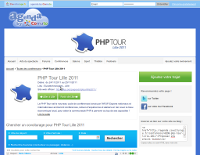
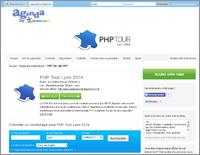
PHPTour Lyon : Mise à jour du site

diff --git a/htdocs/templates/phptourlyon2014/acces.html b/htdocs/templates/phptourlyon2014/acces.html
@@ -5,17 +5,16 @@
 
     <h2>Plan d'accès</h2>
 
-    <p>Le PHP Tour Lyon 2014 se tiendra au Centre de Communication de l'Ouest.</p>
-    <p class="block-leftbar">Centre de Communication de l'Ouest,<br/>Place de Bretagne,<br/>BP 72423,<br/>44047 Lyon Cedex 1</p>
-
-    <p>Le CCO sur Google Maps :</p>
+    <p>Le PHP Tour Lyon 2014 se tiendra à la Manufacture des Tabacs.</p>
+    <p class="block-leftbar">Université Jean Moulin Lyon 3,<br/>6 cours Albert Thomas,<br/>69008 LYON</p>
+    <p>La Manufacture des Tabacs sur Google Maps :</p>
     <div class="map">
-        <iframe width="670" height="250" frameborder="0" scrolling="no" marginheight="0" marginwidth="0" src="http://maps.google.fr/maps?f=q&amp;source=s_q&amp;hl=fr&amp;geocode=&amp;q=CCO,+place+de+bretagne,+lyon,+france&amp;ie=UTF8&amp;hq=CCO,&amp;hnear=Place+de+Bretagne,+Lyon,+Loire-Atlantique,+Pays+de+la+Loire&amp;t=m&amp;ll=47.217728,-1.558832&amp;spn=0.006295,0.006295&amp;output=embed"></iframe>
+        <iframe width="670" height="250" frameborder="0" scrolling="no" marginheight="0" marginwidth="0" src="https://www.google.fr/maps?t=m&amp;q=6+cours+Albert+Thomas+69008+LYON+&amp;ie=UTF8&amp;hq=&amp;hnear=6+Cours+Albert+Thomas,+69008+Lyon,+Rh%C3%B4ne,+Rh%C3%B4ne-Alpes&amp;z=14&amp;ll=45.749049,4.86073&amp;output=embed&iwloc=near"></iframe>
         <br />
-        <a href="http://maps.google.fr/maps?f=q&amp;source=embed&amp;hl=fr&amp;geocode=&amp;q=CCO,+place+de+bretagne,+lyon,+france&amp;ie=UTF8&amp;hq=CCO,&amp;hnear=Place+de+Bretagne,+Lyon,+Loire-Atlantique,+Pays+de+la+Loire&amp;t=m&amp;ll=47.217728,-1.558832&amp;spn=0.006295,0.006295">Agrandir le plan</a>
+        <a href="https://www.google.fr/maps?t=m&amp;q=6+cours+Albert+Thomas+69008+LYON+&amp;ie=UTF8&amp;hq=&amp;hnear=6+Cours+Albert+Thomas,+69008+Lyon,+Rh%C3%B4ne,+Rh%C3%B4ne-Alpes&amp;z=14&amp;ll=45.749049,4.86073&amp;output=embed">Agrandir le plan</a>
     </div>
 
-<!--
+
     <h2>Comment venir au PHP Tour Lyon 2014 ?</h2>
 
     <h3>En voiture, depuis Paris :</h3>
@@ -27,7 +26,7 @@
         <li>Au carrefour, prendre à gauche. Vous entrez sur l'avenue de Dunkerque.</li>
         <li>Au 5ème feu, prendre à gauche, avenue de Bretagne. Euratechnologies est au bout de la rue.</li>
     </ul>
-	<br/>
+    <br/>
 
     <h3>En voiture, depuis Bruxelles :</h3>
     <ul>
@@ -35,53 +34,42 @@
         <li>Après l'entrée sur le territoire français, prendre direction  A1/Lille/Armentieres/Dunkerque</li>
         <li>Suivre ensuite les directions données pour l'itinéraire depuis Paris</li>
     </ul>
-	<br/>
+    <br/>
 
     <h3>Voyagez à plusieurs grâce au covoiturage !</h3>
-	<div class="covoiturage">
-		<img src="{$chemin_template}images/covoiturage.png" align="left"/>
-   		<p>Proposez des places dans votre véhicule, ou trouvez une voiture qui se rend également au PHP Tour Lyon 2014,
-    	discutez PHP le temps du trajet, et partagez les frais de route : une page dédiée au co-voiturage est
-   		d'ores et déjà en place à cet effet : <a href="http://agenda.covoiturage.fr//conference/4208-php-tour-lille-2011">http://agenda.covoiturage.fr//conference/4208-php-tour-lille-2011</a></p>
-		<div class="clear"></div>
-	</div>
-	<br/>
+    <div class="covoiturage">
+        <img src="{$chemin_template}images/covoiturage.png" align="left"/>
+        <p>Proposez des places dans votre véhicule, ou trouvez une voiture qui se rend également au PHP Tour Lyon 2014,
+            discutez PHP le temps du trajet, et partagez les frais de route : une page dédiée au co-voiturage est
+            d'ores et déjà en place à cet effet : <a href="http://agenda.covoiturage.fr/evenement/conference/14365-php-tour-lyon-2014">http://agenda.covoiturage.fr/evenement/conference/14365-php-tour-lyon-2014</a></p>
+        <div class="clear"></div>
+    </div>
+    <br/>
 
     <h3 style="clear:both">En train :</h3>
     <ul>
-        <li>Paris / Lille en 1 heure,</li>
-        <li>Bruxelles / Lille en 35 minutes,</li>
-        <li>Lyon / Lille en 3 heures,</li>
-        <li>Strasbourg / Lille en 3h20,</li>
-        <li>Lyon / Lille en 4 heures,</li>
-        <li>Bordeaux / Lille en 5 heures</li>
+        <li>Marseille / Lyon en 1 heure 40 minutes,</li>
+        <li>Genève / Lyon en 2 heures,</li>
+        <li>Bruxelles / Lyon en 4 heures,</li>
+        <li>Lille / Lyon en 3 heures,</li>
+        <li>Paris / Lyon en 2 heures,</li>
+        <li>Strasbourg / Lille en 4h00,</li>
+        <li>Bordeaux / Lyon en 6 heures</li>
     </ul>
-	<br/>
+    <br/>
 
     <h3>En avion :</h3>
-    <p>Aéroport de Lille-Lesquin, navette jusqu'à la gare Lille Europe.</p>
-	<br/>
+    <p>Aéroport de Saint Exupéry, Tram Express (RhônExpress) jusqu'à la gare de Lyon Part-Dieu.</p>
+    <br/>
 
-    <h3>A partir de Lille</h3>
-    <p>A la gare Lille Europe tout comme à la gare Lille Flandres, prendre le métro ligne 2, direction Lomme St Philibert Arrêt Canteleu - 15 min de trajet</p>
-	<br/>
-
-    <p>Du métro Canteleu à Euratechnologies - 7 min à pied</p>
-    <ul>
-        <li>En sortant du métro, prendre à droite sur l'avenue de Dunkerque.</li>
-        <li>Prendre la première à droite, Rue Turgot</li>
-        <li>Prendre la première à gauche, rue Copernic.</li>
-        <li>L'avenue de Bretagne est au bout de la rue Copernic, Euratechnologies est à votre droite.</li>
-    </ul>
-	<br/>
+    <h3>A partir de Lyon</h3>
+    <p>A la gare de la Part-Dieu, prendre le Tramway T4 (Direction Hopital Feyzin Venissieux), Arrêt Manufacture - Montluc - 4 min de trajet</p>
+    <br/>
 
     <p>Itinéraire Google Maps Piéton :</p>
     <div class="map">
-        <iframe width="670" height="250" frameborder="0" scrolling="no" marginheight="0" marginwidth="0" src="http://maps.google.fr/maps?f=d&amp;source=s_d&amp;saddr=m%C3%A9tro+canteleu&amp;daddr=165+Avenue+de+la+Bretagne,+59000+Lille&amp;hl=fr&amp;geocode=FV2pBAMdhCYuACmL09dPXtXCRzHDQaG_-k76qg%3BFVObBAMdcRouACnzRgpsXNXCRzHXEzRGoV1m4w&amp;mra=ltm&amp;dirflg=w&amp;sll=50.635547,3.023912&amp;sspn=0.003681,0.010568&amp;ie=UTF8&amp;vpsrc=0&amp;ll=50.635731,3.022785&amp;spn=0.004083,0.006437&amp;z=16&amp;output=embed"></iframe>
-        <br />
-        <a href="http://maps.google.fr/maps?f=d&amp;source=embed&amp;saddr=m%C3%A9tro+canteleu&amp;daddr=165+Avenue+de+la+Bretagne,+59000+Lille&amp;hl=fr&amp;geocode=FV2pBAMdhCYuACmL09dPXtXCRzHDQaG_-k76qg%3BFVObBAMdcRouACnzRgpsXNXCRzHXEzRGoV1m4w&amp;mra=ltm&amp;dirflg=w&amp;sll=50.635547,3.023912&amp;sspn=0.003681,0.010568&amp;ie=UTF8&amp;vpsrc=0&amp;ll=50.635731,3.022785&amp;spn=0.004083,0.006437&amp;z=16">Agrandir le plan</a>
+        <iframe width="670" height="250" frameborder="0" scrolling="no" marginheight="0" marginwidth="0" src="https://www.google.fr/maps?f=d&amp;source=embed&amp;saddr=6+Cours+Albert+Thomas,+Lyon&amp;daddr=gare+sncf+%C3%A0+proximit%C3%A9+de+La+Part-Dieu,+Lyon&amp;hl=fr&amp;geocode=FTkTugIdOitKACm30DKCcer0RzG1uiaHIk_12A%3BFRFAugId0CFKACFaBcDXM_GJSCn5fy5VYur0RzFaBcDXM_GJSA&amp;aq=0&amp;oq=gare+La+Part-Dieu,+Lyon&amp;sll=45.754853,4.859525&amp;sspn=0.012771,0.033023&amp;dirflg=r&amp;ttype=now&amp;noexp=0&amp;noal=0&amp;sort=def&amp;mra=ls&amp;ie=UTF8&amp;t=m&amp;start=0&amp;ll=45.754828,4.859562&amp;spn=0.02096,0.036478&amp;z=14&amp;output=embed"></iframe><br /><a href="https://www.google.fr/maps?f=d&amp;source=embed&amp;saddr=6+Cours+Albert+Thomas,+Lyon&amp;daddr=gare+sncf+%C3%A0+proximit%C3%A9+de+La+Part-Dieu,+Lyon&amp;hl=fr&amp;geocode=FTkTugIdOitKACm30DKCcer0RzG1uiaHIk_12A%3BFRFAugId0CFKACFaBcDXM_GJSCn5fy5VYur0RzFaBcDXM_GJSA&amp;aq=0&amp;oq=gare+La+Part-Dieu,+Lyon&amp;sll=45.754853,4.859525&amp;sspn=0.012771,0.033023&amp;dirflg=r&amp;ttype=now&amp;noexp=0&amp;noal=0&amp;sort=def&amp;mra=ls&amp;ie=UTF8&amp;t=m&amp;start=0&amp;ll=45.754828,4.859562&amp;spn=0.02096,0.036478&amp;z=14" >Agrandir le plan</a>
     </div>
--->
 </div>
 
 {include file="sidebar.html"}

diff --git a/htdocs/templates/phptourlyon2014/sidebar_old.html b/htdocs/templates/phptourlyon2014/sidebar_old.html
@@ -1,0 +1,82 @@
+			<aside class="sidebar">
+
+				<div class="bloc-sidebar">
+					<div class="title">
+						<p><a href="sponsors.php">Sponsors</a></p>
+					</div>
+					<div class="bloc-sidebar-content">
+						<div class="title">
+							<p>Sponsors</p>
+						</div>
+						{if count($partenaires.Platine) > 0}
+							<p>"Platine"</p>
+	                        {foreach from=$partenaires.Platine item=partenaire}
+	                        <a class="withTooltip" href="{$partenaire.site}" target="_blank"
+	                           title="{$partenaire.nom} | {$partenaire.presentation|strip_tags}">
+	                            <img src="{$chemin_template}/images/{$partenaire.logo}" alt="Logo {$partenaire.nom}" /></a>
+	                        {/foreach}
+						{/if}
+						{if count($partenaires.Or) > 0}
+							<p>"Or"</p>
+	                        {foreach from=$partenaires.Or item=partenaire}
+	                        <a class="withTooltip" href="{$partenaire.site}" target="_blank"
+	                           title="{$partenaire.nom} | {$partenaire.presentation|strip_tags}">
+	                            <img src="{$chemin_template}/images/{$partenaire.logo}" alt="Logo {$partenaire.nom}" /></a>
+	                        {/foreach}
+						{/if}
+						{if count($partenaires.Argent) > 0}
+							<p>"Argent"</p>
+	                        {foreach from=$partenaires.Argent item=partenaire}
+	                        <a class="withTooltip" href="{$partenaire.site}" target="_blank"
+	                           title="{$partenaire.nom} | {$partenaire.presentation|strip_tags}">
+	                            <img src="{$chemin_template}/images/{$partenaire.logo}" alt="Logo {$partenaire.nom}" /></a>
+	                        {/foreach}
+						{/if}
+						{if count($partenaires.Bronze) > 0}
+							<p>"Bronze"</p>
+	                        {foreach from=$partenaires.Bronze item=partenaire}
+	                        <a class="withTooltip" href="{$partenaire.site}" target="_blank"
+	                           title="{$partenaire.nom} | {$partenaire.presentation|strip_tags}">
+	                            <img src="{$chemin_template}/images/{$partenaire.logo}" alt="Logo {$partenaire.nom}" /></a>
+	                        {/foreach}
+						{/if}
+					</div>
+				</div>
+
+				<div class="bloc-sidebar share">
+					<div class="title">
+						<p>Partagez le!</p>
+					</div>
+					<div class="bloc-sidebar-content">
+						<a href="http://twitter.com/share" class="twitter-share-button" data-count="horizontal" data-via="afup" data-lang="fr">Tweet</a><script type="text/javascript" src="http://platform.twitter.com/widgets.js"></script>
+						<br/><br/>
+						<iframe src="http://www.facebook.com/plugins/like.php?href=http://afup.org/pages/phptourlille2011/&amp;layout=standard&amp;show_faces=true&amp;width=178&amp;action=like&amp;colorscheme=light" scrolling="no" frameborder="0" style="border:none; overflow:hidden; width:178px; height:100px;" allowTransparency="true"></iframe>
+					</div>
+				</div>
+
+				<div class="bloc-sidebar">
+					<div class="title">
+						<p>Organisateurs</p>
+					</div>
+					<div class="bloc-sidebar-content">
+						<a href="http://www.afup.org/" target="_blank"><img src="{$chemin_template}/medias/images/logo_afup.png" alt="Logo Afup" /></a>
+						<a href="http://www.php.net/" target="_blank"><img src="{$chemin_template}/medias/images/logo_php.png" alt="Logo Php" /></a>
+					</div>
+				</div>
+
+				{if count($partenaires.Partenaires) > 0}
+				<div class="bloc-sidebar">
+					<div class="title">
+						<p><a href="sponsors.php">Partenaires</a></p>
+					</div>
+					<div class="bloc-sidebar-content">
+                        {foreach from=$partenaires.Partenaires item=partenaire}
+                        <a class="withTooltip" href="{$partenaire.site}" target="_blank"
+                           title="{$partenaire.nom} | {$partenaire.presentation|strip_tags}">
+                            <img src="{$chemin_template}/images/{$partenaire.logo}" alt="Logo {$partenaire.nom}" /></a>
+                        {/foreach}
+					</div>
+				</div>
+				{/if}
+
+			</aside><!-- End Sidebar -->

diff --git a/htdocs/templates/phptourlyon2014/sidebar.html b/htdocs/templates/phptourlyon2014/sidebar.html
@@ -1,48 +1,5 @@
 			<aside class="sidebar">
 
-				<div class="bloc-sidebar">
-					<div class="title">
-						<p><a href="sponsors.php">Sponsors</a></p>
-					</div>
-					<div class="bloc-sidebar-content">
-						<div class="title">
-							<p>Sponsors</p>
-						</div>
-						{if count($partenaires.Platine) > 0}
-							<p>"Platine"</p>
-	                        {foreach from=$partenaires.Platine item=partenaire}
-	                        <a class="withTooltip" href="{$partenaire.site}" target="_blank"
-	                           title="{$partenaire.nom} | {$partenaire.presentation|strip_tags}">
-	                            <img src="{$chemin_template}/images/{$partenaire.logo}" alt="Logo {$partenaire.nom}" /></a>
-	                        {/foreach}
-						{/if}
-						{if count($partenaires.Or) > 0}
-							<p>"Or"</p>
-	                        {foreach from=$partenaires.Or item=partenaire}
-	                        <a class="withTooltip" href="{$partenaire.site}" target="_blank"
-	                           title="{$partenaire.nom} | {$partenaire.presentation|strip_tags}">
-	                            <img src="{$chemin_template}/images/{$partenaire.logo}" alt="Logo {$partenaire.nom}" /></a>
-	                        {/foreach}
-						{/if}
-						{if count($partenaires.Argent) > 0}
-							<p>"Argent"</p>
-	                        {foreach from=$partenaires.Argent item=partenaire}
-	                        <a class="withTooltip" href="{$partenaire.site}" target="_blank"
-	                           title="{$partenaire.nom} | {$partenaire.presentation|strip_tags}">
-	                            <img src="{$chemin_template}/images/{$partenaire.logo}" alt="Logo {$partenaire.nom}" /></a>
-	                        {/foreach}
-						{/if}
-						{if count($partenaires.Bronze) > 0}
-							<p>"Bronze"</p>
-	                        {foreach from=$partenaires.Bronze item=partenaire}
-	                        <a class="withTooltip" href="{$partenaire.site}" target="_blank"
-	                           title="{$partenaire.nom} | {$partenaire.presentation|strip_tags}">
-	                            <img src="{$chemin_template}/images/{$partenaire.logo}" alt="Logo {$partenaire.nom}" /></a>
-	                        {/foreach}
-						{/if}
-					</div>
-				</div>
-
 				<div class="bloc-sidebar share">
 					<div class="title">
 						<p>Partagez le!</p>

diff --git a/htdocs/templates/phptourlyon2014/contact.html b/htdocs/templates/phptourlyon2014/contact.html
@@ -5,26 +5,26 @@
     <h1>Contact</h1>
 
     <h2>Le lieu</h2>
-    <p>Le PHP Tour se déroulera au Centre de Communication de l'Ouest.</p>
+    <p>Le PHP Tour se déroulera à la Manufacture des Tabacs à Lyon.</p>
     <p><strong>Adresse :</strong></p>
     <div class="block-leftbar">
-	    Centre de Communication de l'Ouest,<br/>Place de Bretagne,<br/>BP 72423,<br/>44047 Lyon Cedex 1
+	    Manufacture des Tabacs,<br/>6 cours Albert Thomas,<br/>69008 Lyon
 	</div>
-    <p>Téléphone : 02.40.20.23.23</p>
-    <p>Site internet : <a href="http://www.cco-lyon.org/">http://www.cco-lyon.org//</a></p>
+    <p>Téléphone : 04.78.78.77.86</p>
+    <p>Site internet : <a href="http://www.univ-lyon3.fr/fr/presentation/localisations/site-de-la-manufacture-des-tabacs/">http://www.univ-lyon3.fr/fr/presentation/localisations/site-de-la-manufacture-des-tabacs/</a></p>
     <p>Pour plus d'informations concernant l'accès au site, <a href="acces.php">cliquez ici</a></p>
 
     <h2>Contacter l'équipe d'organisation du PHP Tour Lyon 2014</h2>
 
     <h3>Président de l'AFUP</h3>
     <div class="block-leftbar">
-   		<p><strong>Xavier LACOT</strong></p>
+   		<p><strong>Olivier MANSOUR</strong></p>
    		<p>Contact : <a href="mailto:bureau@afup.org">bureau@afup.org</a></p>
    	</div>
 
     <h3>Responsable antenne locale Lyon</h3>
     <div class="block-leftbar">
-        <p><strong>Martin SUPIOT</strong></p>
+        <p><strong>Mikael RANDY</strong></p>
         <p>Contact : <a href="mailto:phptourlyon@afup.org">phptourlyon@afup.org</a></p>
     </div>
 

diff --git a/htdocs/templates/phptourlyon2014/entete_old.html b/htdocs/templates/phptourlyon2014/entete_old.html
@@ -41,7 +41,15 @@
 					<ul class="clearfix">
 						<li class=""><a class="home" href="index.php">Accueil</a></li>
 						<li><a class="inscription" href="inscription.php">Tarifs/Inscription</a></li>
-                                		<li><a class="acces" href="acces.php">Accès</a></li>
+						<li><a class="programme" href="deroulement.php">Programme</a>
+							<ul class="lvl-1">
+								<li><a href="conferenciers.php">Conférenciers</a></li>
+								<li><a href="sessions.php">Sessions</a></li>
+								<!--li><a href="resumes.php">Résumés</a></li-->
+							</ul>
+						</li>
+						<li><a class="sponsor" href="sponsors.php">Sponsors</a></li>
+						<li><a class="acces" href="acces.php">Accès</a></li>
 						<li><a class="contact" href="buzz.php">Buzz</a></li>
 						<li><a class="contact" href="contact.php">Contact</a></li>
 					</ul>

diff --git a/htdocs/templates/phptourlyon2014/pied_de_page.html b/htdocs/templates/phptourlyon2014/pied_de_page.html
@@ -5,13 +5,13 @@
         	<div class="footer-content clearfix">
         		<div class="location">
         			<div class="map">
-        				<a href="acces.php"><img src ="{$chemin_template}/medias/images/map.jpg" alt="Place de Bretagne, 44000 Lyon"></a>
+        				<a href="acces.php"><img src ="{$chemin_template}/medias/images/map.jpg" alt="6 cours Albert Thomas, 69008 LYON"></a>
         			</div>
-        			<h4>PHP Tour</h4>
+        			<h4>PHP Tour Lyon</h4>
         			<p>
-        				29 et 30 novembre 2014<br/>
-						CCO<br/>
-						44000 Lyon
+        				24 et 25 Juin 2014<br/>
+						Manufacture des Tabacs<br/>
+						69008 LYON
 					</p>
         		</div>
 

diff --git a/htdocs/templates/phptourlyon2014/entete-mobile.html b/htdocs/templates/phptourlyon2014/entete-mobile.html
@@ -3,7 +3,7 @@
 	<head>
         <meta charset="utf-8">
         <meta name="viewport" content="width=device-width">
-        <meta name="keywords" content="PHP Tour Lyon 2014, les meilleurs experts PHP à Lille" lang="fr" />
+        <meta name="keywords" content="PHP Tour Lyon 2014, les meilleurs experts PHP à Lyon" lang="fr" />
         <link rel="stylesheet" href="{$chemin_template}medias/css/style-mobile.css" type="text/css" media="all" />
         <title>PHP Tour Lyon 2014 organisé par l'AFUP avec les meilleurs experts PHP français et internationaux</title>
     </head>

diff --git a/htdocs/templates/phptourlyon2014/inscriptions_fermes.html b/htdocs/templates/phptourlyon2014/inscriptions_fermes.html
@@ -1,7 +1,7 @@
 {include file="entete.html"}
 
 <div class="left-content">
-    <h1>Rendez-vous en 2013</h1>
+    <h1>Rendez-vous en 2014</h1>
     <p>
     	D&eacute;sol&eacute; mais le PHP Tour Lyon 2014 est complet ;-)
     </p>

diff --git a/htdocs/pages/phptourlyon2014/inscription.php b/htdocs/pages/phptourlyon2014/inscription.php
@@ -28,6 +28,7 @@ if (!isset($_GET['passage_en_force'])) {
 	  die();
 	}
 }
+
 if (time() > $config_forum['date_debut']) {
 	$smarty->display('inscriptions_fermes.html');
 	die();
